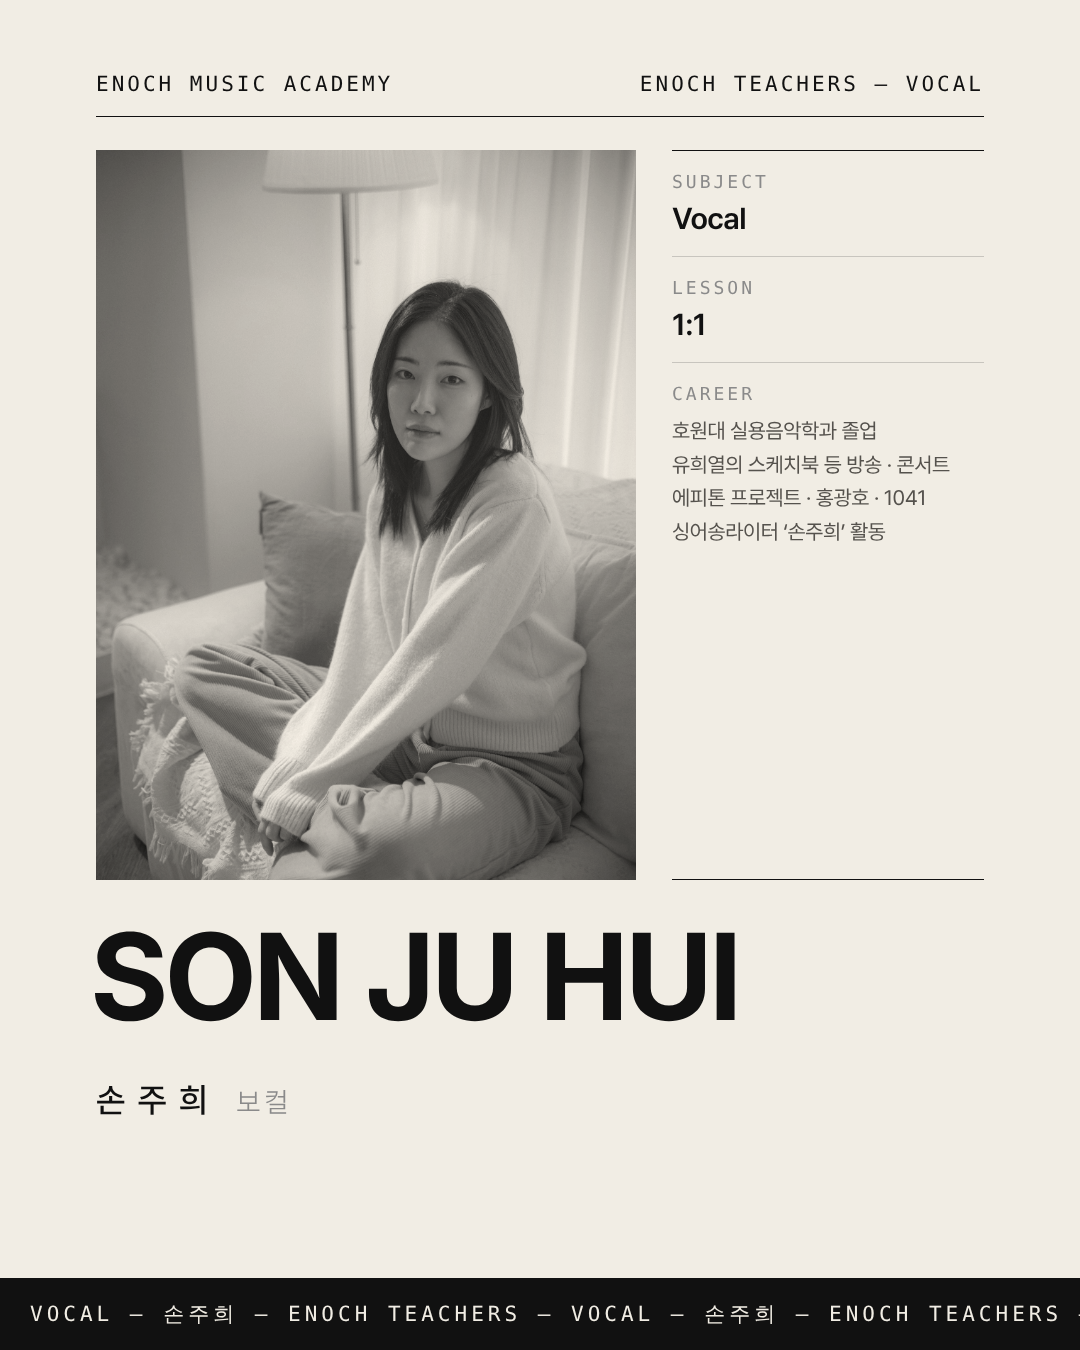
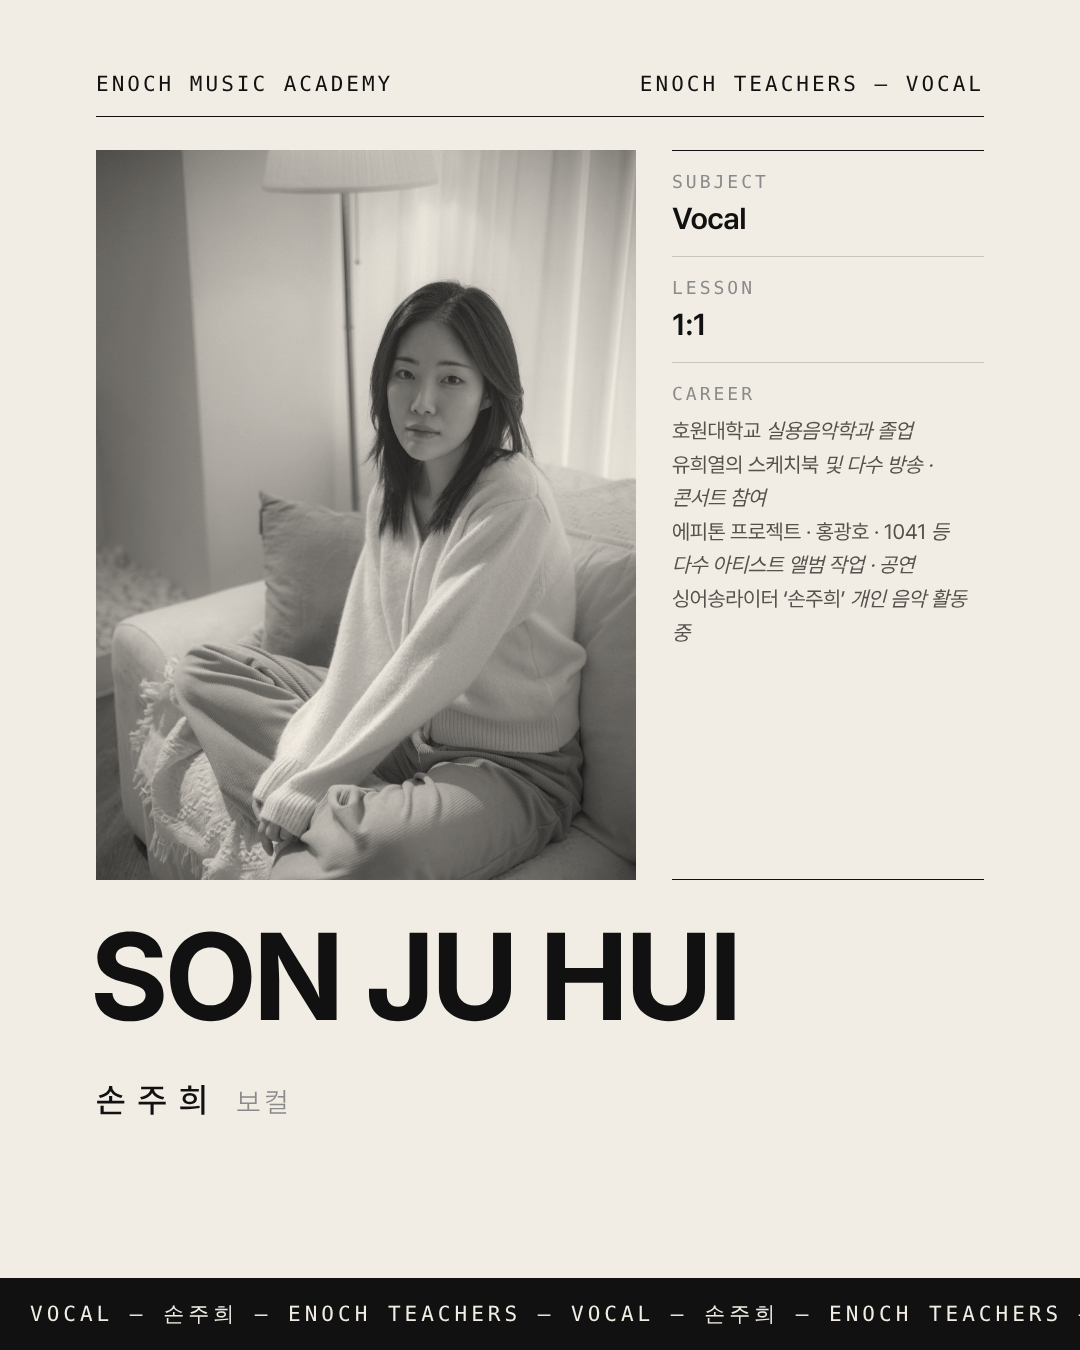
강사소개 손주희 아이보리 스토리: 이력은 왼쪽 한 곳에만, 사진 오른쪽
Claude-Session: https://claude.ai/code/session_01HGbZvgMeYrbU7mY8bwfjyb

Changed region(s): [[0.6111, 0.3111, 0.8861, 0.4667]]

diff --git a/output/강사소개_손주희/story_ivory.html b/output/강사소개_손주희/story_ivory.html
@@ -47,12 +47,18 @@
 
 #S{height:1920px}
 #S .hd{top:230px}
-#S .ph{position:absolute;left:96px;top:310px;width:540px;height:760px;background:url(../../images/강사/손주희_01.jpg) 60% 30%/cover;filter:grayscale(1) sepia(.16) contrast(1.05)}
-#S .col{position:absolute;left:672px;right:96px;top:310px;height:760px;border-top:1.5px solid var(--bk);border-bottom:1.5px solid var(--bk)}
+#S .ph{position:absolute;right:96px;top:310px;width:440px;height:760px;background:url(../../images/강사/손주희_01.jpg) 60% 30%/cover;filter:grayscale(1) sepia(.16) contrast(1.05)}
+#S .col{position:absolute;left:96px;width:416px;top:310px;height:760px;border-top:1.5px solid var(--bk);border-bottom:1.5px solid var(--bk)}
 #S .cell{padding:22px 0;border-bottom:1px solid var(--hair)}
 #S .cell:last-child{border-bottom:0}
 #S .cell .v{margin-top:8px;font-size:30px;font-weight:600;letter-spacing:-.6px}
-#S .cell .t{margin-top:10px;font-size:22px;line-height:1.6;color:var(--b);letter-spacing:-.4px}
+#S .cell .t{margin-top:10px;font-size:24px;line-height:1.55;color:var(--bk);letter-spacing:-.5px}
+#S .cell .t p{margin-bottom:14px}
+#S .cell .t i{font-style:normal;color:var(--g);font-weight:300}
+#S .cl{position:absolute;left:96px;right:96px;top:1380px;border-top:1.5px solid var(--bk);padding-top:40px}
+#S .cl h3{font-size:52px;font-weight:700;letter-spacing:-1.5px;line-height:1.25}
+#S .cl h3 em{font-style:normal;font-weight:300}
+#S .cl p{margin-top:22px;font-size:24px;color:var(--b);line-height:1.6}
 #S .en{position:absolute;left:90px;top:1110px;font-family:var(--en);font-weight:700;font-size:124px;letter-spacing:-4px;line-height:.95}
 #S .ko{position:absolute;left:96px;top:1270px;font-size:34px;font-weight:500;letter-spacing:12px}
 #S .ko span{color:var(--g);font-weight:300;letter-spacing:4px;margin-left:16px;font-size:28px}
@@ -68,10 +74,10 @@
   <div class="col">
     <div class="cell"><div class="k">Subject</div><div class="v">Vocal</div></div>
     <div class="cell"><div class="k">Lesson</div><div class="v">1:1</div></div>
-    <div class="cell"><div class="k">Career</div><div class="t">호원대 실용음악학과 졸업<br>유희열의 스케치북 등 방송 · 콘서트<br>에피톤 프로젝트 · 홍광호 · 1041<br>싱어송라이터 ‘손주희’ 활동</div></div>
+    <div class="cell"><div class="k">Career</div><div class="t"><p>호원대학교 <i>실용음악학과 졸업</i></p><p>유희열의 스케치북 <i>및 다수 방송 · 콘서트 참여</i></p><p>에피톤 프로젝트 · 홍광호 · 1041 <i>등 다수 아티스트 앨범 작업 · 공연</i></p><p>싱어송라이터 ‘손주희’ <i>개인 음악 활동 중</i></p></div></div>
   </div>
   <div class="en">SON JU HUI</div>
   <div class="ko">손주희<span>보컬</span></div>
-  <div class="tbl"><div class="sec"><span class="k">Education</span><ul><li>호원대학교 <i>실용음악학과 졸업</i></li></ul></div><div class="sec"><span class="k">Broadcast</span><ul><li>유희열의 스케치북 <i>및 다수 방송 · 콘서트 참여</i></li></ul></div><div class="sec"><span class="k">Works</span><ul><li>에피톤 프로젝트 · 홍광호 · 1041 <i>등 다수 아티스트 앨범 작업 · 공연</i></li></ul></div><div class="sec"><span class="k">Artist</span><ul><li>싱어송라이터 ‘손주희’ <i>개인 음악 활동 중</i></li></ul></div></div>
+  <div class="cl"><h3>무대에서 다듬은 목소리를,<br><em>1:1로.</em></h3><p>에녹실용음악학원 시흥점 · 경기도 시흥시 은행로 157 2층 · 031 315 3666</p></div>
   <div class="band"><span>VOCAL — 손주희 — ENOCH TEACHERS — VOCAL — 손주희 — ENOCH TEACHERS — VOCAL — 손주희 — ENOCH TEACHERS — VOCAL — 손주희 — ENOCH TEACHERS — </span></div>
 </section></body></html>

diff --git a/output/강사소개_손주희/feed.html b/output/강사소개_손주희/feed.html
@@ -51,7 +51,7 @@
   <div class="col">
     <div class="cell"><div class="k">Subject</div><div class="v">Vocal</div></div>
     <div class="cell"><div class="k">Lesson</div><div class="v">1:1</div></div>
-    <div class="cell"><div class="k">Career</div><div class="t">호원대 실용음악학과 졸업<br>유희열의 스케치북 등 방송 · 콘서트<br>에피톤 프로젝트 · 홍광호 · 1041<br>싱어송라이터 ‘손주희’ 활동</div></div>
+    <div class="cell"><div class="k">Career</div><div class="t"><p>호원대학교 <i>실용음악학과 졸업</i></p><p>유희열의 스케치북 <i>및 다수 방송 · 콘서트 참여</i></p><p>에피톤 프로젝트 · 홍광호 · 1041 <i>등 다수 아티스트 앨범 작업 · 공연</i></p><p>싱어송라이터 ‘손주희’ <i>개인 음악 활동 중</i></p></div></div>
   </div>
   <div class="en">SON JU HUI</div>
   <div class="ko">손주희<span>보컬</span></div>

diff --git a/output/강사소개_손주희/build.py b/output/강사소개_손주희/build.py
@@ -34,7 +34,7 @@ feed = f'''</style></head><body>
   <div class="col">
     <div class="cell"><div class="k">Subject</div><div class="v">Vocal</div></div>
     <div class="cell"><div class="k">Lesson</div><div class="v">1:1</div></div>
-    <div class="cell"><div class="k">Career</div><div class="t">호원대 실용음악학과 졸업<br>유희열의 스케치북 등 방송 · 콘서트<br>에피톤 프로젝트 · 홍광호 · 1041<br>싱어송라이터 ‘손주희’ 활동</div></div>
+    <div class="cell"><div class="k">Career</div><div class="t"><p>호원대학교 <i>실용음악학과 졸업</i></p><p>유희열의 스케치북 <i>및 다수 방송 · 콘서트 참여</i></p><p>에피톤 프로젝트 · 홍광호 · 1041 <i>등 다수 아티스트 앨범 작업 · 공연</i></p><p>싱어송라이터 ‘손주희’ <i>개인 음악 활동 중</i></p></div></div>
   </div>
   <div class="en">SON JU HUI</div>
   <div class="ko">손주희<span>보컬</span></div>
@@ -121,12 +121,18 @@ fh = (head + feed).split('</style>')[0]
 iv = fh + '''
 #S{height:1920px}
 #S .hd{top:230px}
-#S .ph{position:absolute;left:96px;top:310px;width:540px;height:760px;background:url(../../images/강사/손주희_01.jpg) 60% 30%/cover;filter:grayscale(1) sepia(.16) contrast(1.05)}
-#S .col{position:absolute;left:672px;right:96px;top:310px;height:760px;border-top:1.5px solid var(--bk);border-bottom:1.5px solid var(--bk)}
+#S .ph{position:absolute;right:96px;top:310px;width:440px;height:760px;background:url(../../images/강사/손주희_01.jpg) 60% 30%/cover;filter:grayscale(1) sepia(.16) contrast(1.05)}
+#S .col{position:absolute;left:96px;width:416px;top:310px;height:760px;border-top:1.5px solid var(--bk);border-bottom:1.5px solid var(--bk)}
 #S .cell{padding:22px 0;border-bottom:1px solid var(--hair)}
 #S .cell:last-child{border-bottom:0}
 #S .cell .v{margin-top:8px;font-size:30px;font-weight:600;letter-spacing:-.6px}
-#S .cell .t{margin-top:10px;font-size:22px;line-height:1.6;color:var(--b);letter-spacing:-.4px}
+#S .cell .t{margin-top:10px;font-size:24px;line-height:1.55;color:var(--bk);letter-spacing:-.5px}
+#S .cell .t p{margin-bottom:14px}
+#S .cell .t i{font-style:normal;color:var(--g);font-weight:300}
+#S .cl{position:absolute;left:96px;right:96px;top:1380px;border-top:1.5px solid var(--bk);padding-top:40px}
+#S .cl h3{font-size:52px;font-weight:700;letter-spacing:-1.5px;line-height:1.25}
+#S .cl h3 em{font-style:normal;font-weight:300}
+#S .cl p{margin-top:22px;font-size:24px;color:var(--b);line-height:1.6}
 #S .en{position:absolute;left:90px;top:1110px;font-family:var(--en);font-weight:700;font-size:124px;letter-spacing:-4px;line-height:.95}
 #S .ko{position:absolute;left:96px;top:1270px;font-size:34px;font-weight:500;letter-spacing:12px}
 #S .ko span{color:var(--g);font-weight:300;letter-spacing:4px;margin-left:16px;font-size:28px}
@@ -142,11 +148,11 @@ iv = fh + '''
   <div class="col">
     <div class="cell"><div class="k">Subject</div><div class="v">Vocal</div></div>
     <div class="cell"><div class="k">Lesson</div><div class="v">1:1</div></div>
-    <div class="cell"><div class="k">Career</div><div class="t">호원대 실용음악학과 졸업<br>유희열의 스케치북 등 방송 · 콘서트<br>에피톤 프로젝트 · 홍광호 · 1041<br>싱어송라이터 ‘손주희’ 활동</div></div>
+    <div class="cell"><div class="k">Career</div><div class="t"><p>호원대학교 <i>실용음악학과 졸업</i></p><p>유희열의 스케치북 <i>및 다수 방송 · 콘서트 참여</i></p><p>에피톤 프로젝트 · 홍광호 · 1041 <i>등 다수 아티스트 앨범 작업 · 공연</i></p><p>싱어송라이터 ‘손주희’ <i>개인 음악 활동 중</i></p></div></div>
   </div>
   <div class="en">SON JU HUI</div>
   <div class="ko">손주희<span>보컬</span></div>
-  <div class="tbl">''' + sec("Education", EDU) + sec("Broadcast", LIVE) + sec("Works", WORK) + sec("Artist", ART) + f'''</div>
+  <div class="cl"><h3>무대에서 다듬은 목소리를,<br><em>1:1로.</em></h3><p>에녹실용음악학원 시흥점 · 경기도 시흥시 은행로 157 2층 · 031 315 3666</p></div>''' + f'''
   <div class="band"><span>{band}</span></div>
 </section></body></html>
 '''
